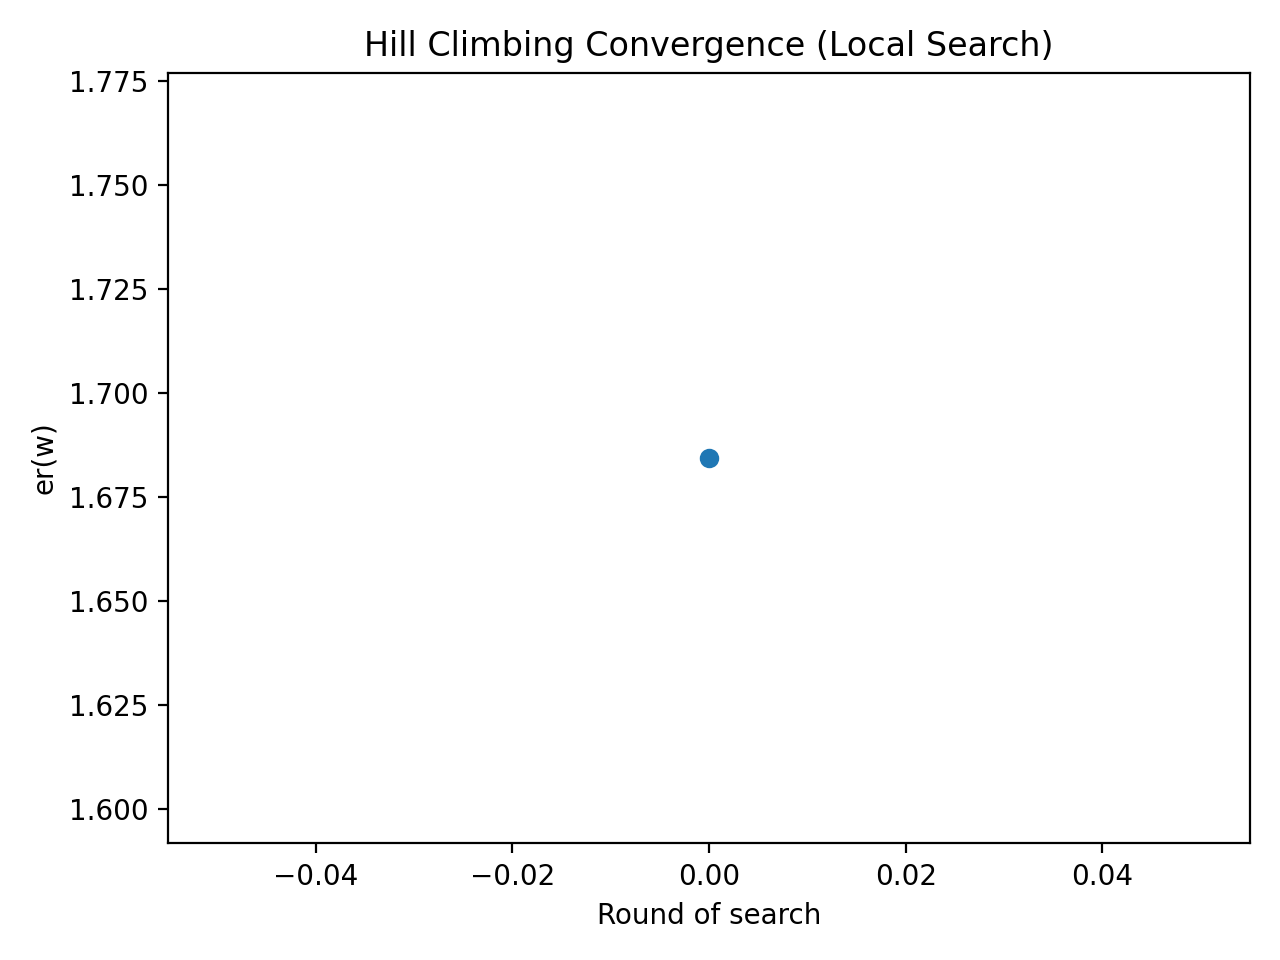
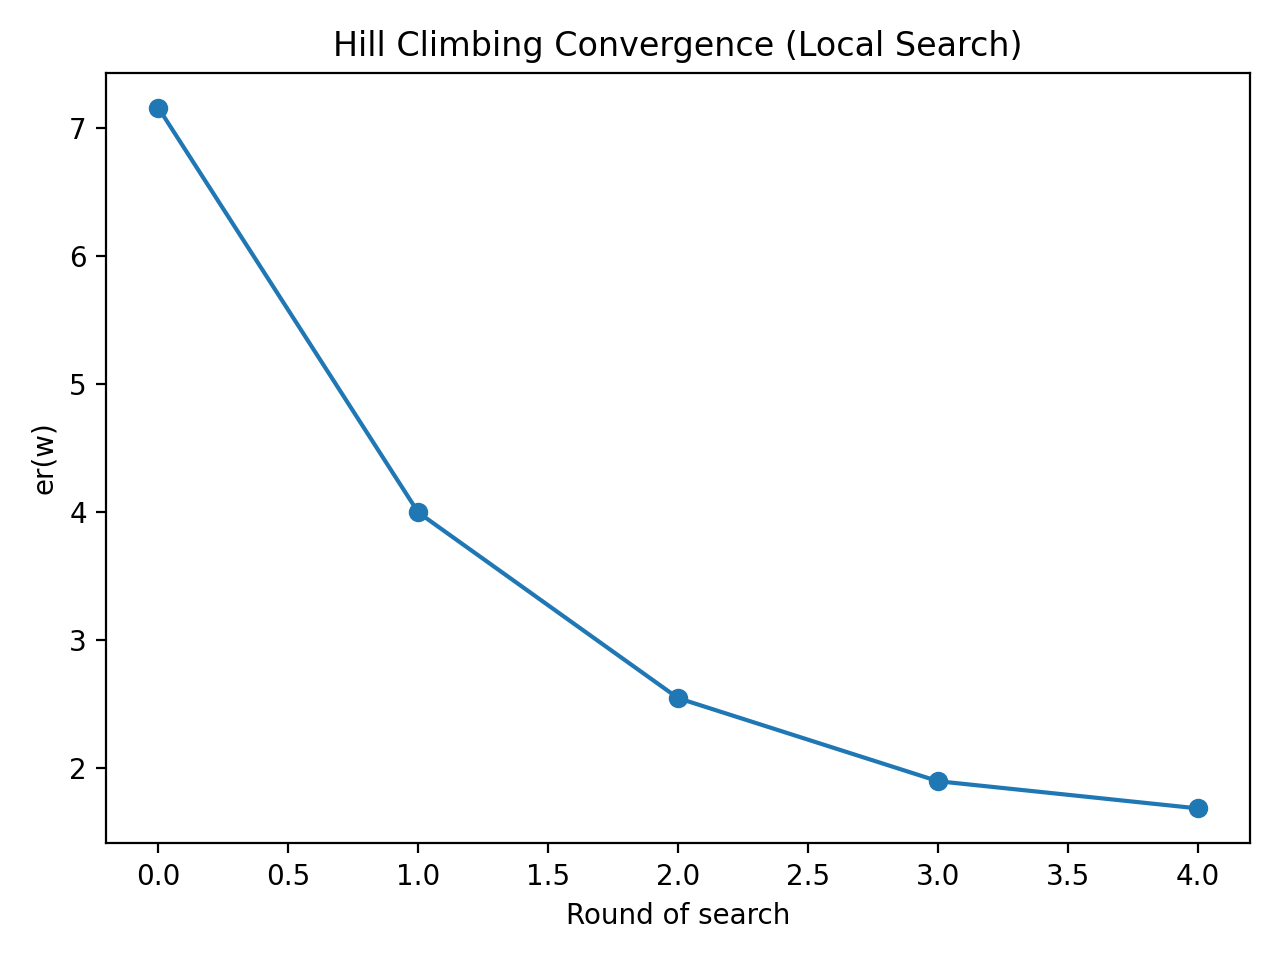
hw 2: showing decreasing local search

diff --git a/hw2_local.py b/hw2_local.py
@@ -1,91 +1,94 @@
+
 import numpy as np
 import pandas as pd
 import matplotlib.pyplot as plt
 
 def load_data(path="CreditCard.csv"):
 
-    df = pd.read_csv(path)  # read the dataset into a DataFrame
+    df = pd.read_csv(path)  # read the csv file into a pandas dataframe
 
-    # encode all the categorical values into numbers
+    # turn all string columns into numeric 0/1 values so we can do math
     x = pd.DataFrame({
-        "Gender": (df["Gender"] == "M").astype(int),       # 1 if male, 0 if female
-        "CarOwner": (df["CarOwner"] == "Y").astype(int),   # 1 if owns a car, 0 otherwise
-        "PropertyOwner": (df["PropertyOwner"] == "Y").astype(int), # 1 if owns property
-        "Children": df["#Children"].astype(float),         # number of kids (numeric)
-        "WorkPhone": df["WorkPhone"].astype(int),          # 1 if work phone, else 0
-        "Email": df["Email_ID"].astype(int),               # 1 if email, else 0
-    }).to_numpy(dtype=float)  # convert features to numpy array
+        "Gender": (df["Gender"] == "M").astype(int),       # male becomes 1, female becomes 0
+        "CarOwner": (df["CarOwner"] == "Y").astype(int),   # yes becomes 1, no becomes 0
+        "PropertyOwner": (df["PropertyOwner"] == "Y").astype(int), # same encoding for property
+        "Children": df["#Children"].astype(float),         # number of children already numeric
+        "WorkPhone": df["WorkPhone"].astype(int),          # keep work phone as 0 or 1
+        "Email": df["Email_ID"].astype(int),               # keep email as 0 or 1
+    }).to_numpy(dtype=float)  # finally turn the dataframe into a numpy array
 
-    # target (label) is whether their credit was approved (1) or denied (0)
+    # the output label is whether credit was approved (1) or denied (0)
     y = df["CreditApprove"].astype(float).to_numpy()
-    return x, y
+    return x, y  # return features and labels
 
 def error(w, x, y):
-    """Compute mean squared error er(w)."""
-    f = x @ w  # prediction = linear combination of features and weights
-    return np.mean((f - y) ** 2)  # squared difference between prediction and true value
+    """compute mean squared error for a weight vector w"""
+    f = x @ w  # prediction = dot product of inputs and weights
+    return np.mean((f - y) ** 2)  # average squared difference from the real answer
 
 def neighbor_oneflip(w):
     """
-    Generate all neighbors of w by flipping exactly one entry.
-    Example: [1,1,1] -> neighbors = [[-1,1,1], [1,-1,1], [1,1,-1]]
+    make a list of all neighbors of w that differ by one entry
+    example: [1,1,1] -> [[-1,1,1], [1,-1,1], [1,1,-1]]
     """
-    nbs = []  # will hold all neighbors
-    for j in range(len(w)):
-        v = w.copy()   # copy current weight vector
-        v[j] = -v[j]   # flip the j-th element (1 -> -1 or -1 -> 1)
-        nbs.append(v)  # add the new vector to neighbors list
+    nbs = []  # will store the neighbors
+    for j in range(len(w)):   # go through each position in w
+        v = w.copy()          # make a copy of w
+        v[j] = -v[j]          # flip the sign at position j
+        nbs.append(v)         # add this new vector to the neighbor list
     return nbs
 
-def hill_climb(x, y, max_rounds=1000, seed=0):
-    """
-    Hill climbing local search:
-    - Start from a random w ∈ {-1, +1}^6
-    - Look at all neighbors (1-flip away)
-    - Move to the neighbor if it reduces error
-    - Stop when no better neighbor exists
-    """
-    rng = np.random.default_rng(seed)  # set random generator for reproducibility
-    # pick a random starting point: each entry is -1 or +1
-    w = rng.choice([-1.0, 1.0], size=x.shape[1])
-    # keep track of errors after each round (for plotting)
-    errors = [error(w, x, y)]
+def hill_climb(x, y, max_rounds=1000, seed=None):
+    rng = np.random.default_rng(seed)  # random generator, controlled by seed
+    w = rng.choice([-1, 1], size=x.shape[1])  # pick a random starting weight vector
+    best_err = error(w, x, y)  # calculate error at the start
+    history = [best_err]       # keep track of error values as we search
 
-    # loop for a maximum number of rounds
+    # try improving up to max_rounds times
     for _ in range(max_rounds):
-        # calculate error for all neighbors
-        candidates = [(error(v, x, y), v) for v in neighbor_oneflip(w)]
-        # pick the neighbor with the smallest error
-        best_e, best_v = min(candidates, key=lambda t: t[0])
+        improved = False  # flag to check if we find any improvement this round
+        for i in range(len(w)):   # look at each position to flip
+            neighbor = w.copy()   # make a neighbor by flipping one position
+            neighbor[i] *= -1     # flip sign at index i
+            current_err = error(neighbor, x, y)  # calculate error of this neighbor
 
-        if best_e < errors[-1]:
-            # if best neighbor is better, move there
-            w = best_v
-            errors.append(best_e)  # record new best error
-        else:
-            # if no neighbor improves, we reached a local minimum
+            if current_err < best_err:  # if this neighbor is better
+                w = neighbor            # move to this neighbor
+                best_err = current_err  # update best error
+                history.append(best_err)  # save this new error in history
+                improved = True         # mark that we improved this round
+        if not improved:  # if no neighbor was better, we are stuck in a local minimum
             break
+    return w, np.array(history)  # return the best weights and the error history
 
-    # return the final weight vector and the history of errors
-    return w, np.array(errors)
+def multi_start_hill_climb(x, y, runs=20, max_rounds=1000):
+    """
+    run hill climbing several times with different random starts
+    return the solution with the longest history (most improvements)
+    """
+    best_w, best_history = None, []  # placeholders for best result
+    for seed in range(runs):  # try different random seeds
+        w, history = hill_climb(x, y, max_rounds=max_rounds, seed=seed)
+        if len(history) > len(best_history):  # keep the run that had more improvement steps
+            best_w, best_history = w, history
+    return best_w, np.array(best_history)
 
 if __name__ == "__main__":
-    # Step 1: load dataset
-    x, y = load_data("CreditCard.csv")
+    x, y = load_data()  # load dataset into features and labels
 
-    # Step 2: run hill climbing search
-    w_best, errs = hill_climb(x, y, max_rounds=1000, seed=0)
+    # run hill climbing many times and pick the best improvement path
+    w_best, errs = multi_start_hill_climb(x, y, runs=50, max_rounds=1000)
 
-    # Step 3: print the best solution found
+    # print the final best weight vector and its error
     print("Optimal w (local search):", w_best)
     print("Optimal er(w):", errs[-1])
 
-    # Step 4: plot the convergence (error vs. round of search)
+    # plot the error values over rounds to see convergence
     plt.figure()
     plt.plot(range(len(errs)), errs, marker="o")
-    plt.xlabel("Round of search")      # x-axis label
-    plt.ylabel("er(w)")                # y-axis label
-    plt.title("Hill Climbing Convergence (Local Search)")  # plot title
+    plt.xlabel("Round of search")
+    plt.ylabel("er(w)")
+    plt.title("Hill Climbing Convergence (Local Search)")
     plt.tight_layout()
-    plt.savefig("figure2_local.png", dpi=200)  # save figure to file
-    plt.show()  # display the figure
+    plt.savefig("figure2_local.png", dpi=200)  # save figure as image file
+    plt.show()  # also display the figure
